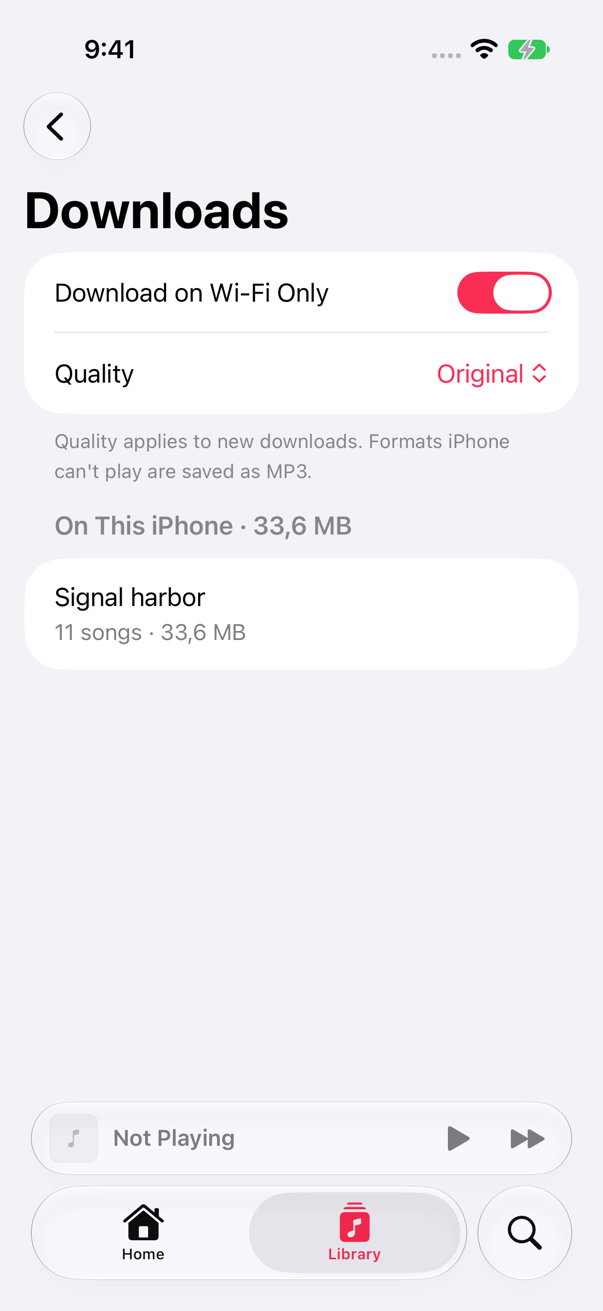
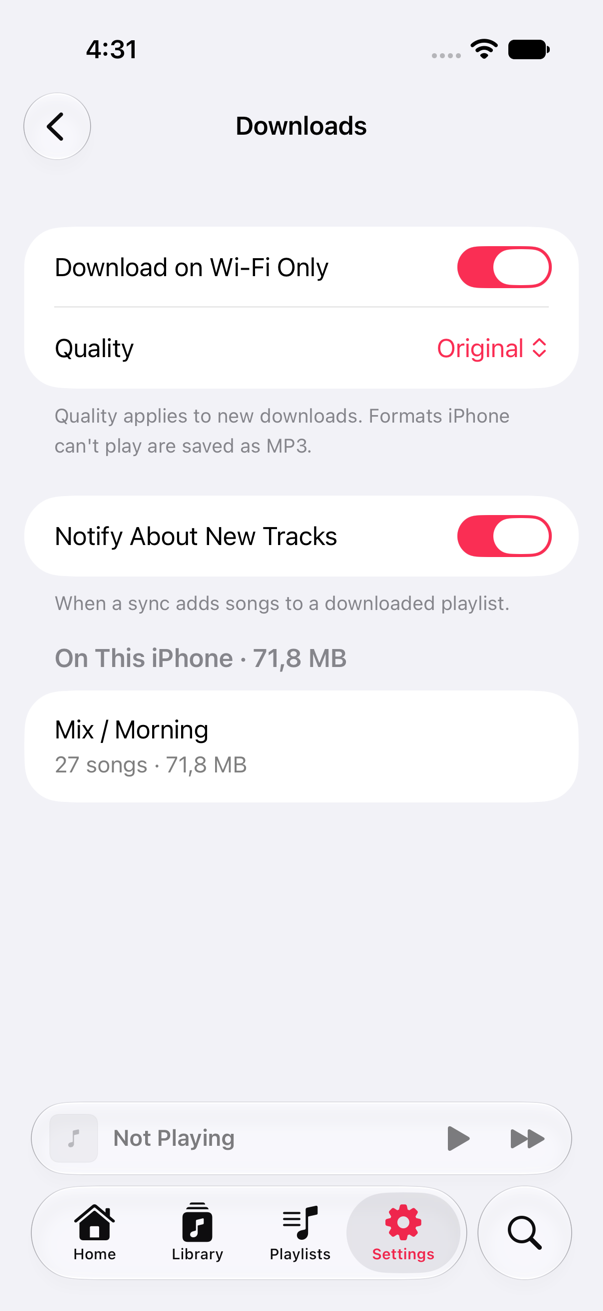
feat(ios): expiry and track alerts

diff --git a/apps/ios/Sources/Notifications/Notices.swift b/apps/ios/Sources/Notifications/Notices.swift
@@ -1,0 +1,83 @@
+import AppIntents
+import UserNotifications
+
+/// Every local notification the app posts. Without permission the system drops them, so callers don't check.
+enum Notices {
+    private static let center = UNUserNotificationCenter.current()
+    private static let presenter = Presenter()
+    private static let warningIDs = ["expiry-2", "expiry-1"]
+
+    static let profile: SigningProfile? = {
+        var url = Bundle.main.url(forResource: "embedded", withExtension: "mobileprovision")
+        #if DEBUG
+        // A simulator build isn't signed: point this at a profile to see the signing rows.
+        if let path = ProcessInfo.processInfo.environment["LODESONG_PROFILE"] { url = URL(fileURLWithPath: path) }
+        #endif
+        return url.flatMap { try? Data(contentsOf: $0) }.flatMap(SigningProfile.init)
+    }()
+
+    static var expiry: Date? {
+        let refreshed = UserDefaults.standard.double(forKey: Pref.signingRefreshed)
+        return profile?.expiry(refreshed: refreshed > 0 ? Date(timeIntervalSince1970: refreshed) : nil)
+    }
+
+    static func start() { center.delegate = presenter }
+
+    static func status() async -> UNAuthorizationStatus { await center.notificationSettings().authorizationStatus }
+
+    /// Shows the system's question the first time only.
+    static func askPermission() async {
+        guard await status() == .notDetermined else { return }
+        _ = try? await center.requestAuthorization(options: [.alert, .sound])
+        scheduleExpiryWarnings()
+    }
+
+    /// Replaces whatever was scheduled, so it is safe to call on every launch.
+    static func scheduleExpiryWarnings() {
+        center.removePendingNotificationRequests(withIdentifiers: warningIDs)
+        guard let expiry else { return }
+        for warning in SigningProfile.warnings(expiry: expiry, now: Date()) {
+            let content = UNMutableNotificationContent()
+            content.title = warning.days == 1 ? "lodesong expires tomorrow" : "lodesong expires in \(warning.days) days"
+            content.body = "Refresh it in SideStore. Already did? Tap I Refreshed Today in Settings, About."
+            content.sound = .default
+            let trigger = UNTimeIntervalNotificationTrigger(timeInterval: warning.date.timeIntervalSinceNow, repeats: false)
+            center.add(UNNotificationRequest(identifier: "expiry-\(warning.days)", content: content, trigger: trigger))
+        }
+    }
+
+    static func markRefreshed() {
+        UserDefaults.standard.set(Date().timeIntervalSince1970, forKey: Pref.signingRefreshed)
+        center.removeDeliveredNotifications(withIdentifiers: warningIDs)
+        scheduleExpiryWarnings()
+    }
+
+    static func post(_ found: [NewTracks]) {
+        guard UserDefaults.standard.bool(Pref.notifyNewTracks, or: true) else { return }
+        for new in found {
+            let content = UNMutableNotificationContent()
+            content.title = new.name
+            content.body = new.count == 1 ? "1 new track" : "\(new.count) new tracks"
+            content.sound = .default
+            center.add(UNNotificationRequest(identifier: "new-\(new.playlist)", content: content, trigger: nil))
+        }
+    }
+
+    /// iOS stays silent about an app that is on screen unless it is asked not to.
+    private final class Presenter: NSObject, UNUserNotificationCenterDelegate {
+        func userNotificationCenter(_ center: UNUserNotificationCenter, willPresent notification: UNNotification) async -> UNNotificationPresentationOptions {
+            [.banner, .list, .sound]
+        }
+    }
+}
+
+/// For the daily refresh shortcut, right after SideStore's Refresh All Apps.
+struct MarkRefreshedIntent: AppIntent {
+    static let title: LocalizedStringResource = "Mark lodesong as Refreshed"
+    static let description = IntentDescription("Run after SideStore refreshes lodesong, so its expiry warnings move on.")
+
+    func perform() async throws -> some IntentResult {
+        Notices.markRefreshed()
+        return .result()
+    }
+}

diff --git a/apps/ios/Sources/Notifications/NoticeViews.swift b/apps/ios/Sources/Notifications/NoticeViews.swift
@@ -1,0 +1,60 @@
+import SwiftUI
+import UserNotifications
+
+/// Settings, About: how long the app stays openable. Not shown in builds that aren't signed.
+struct SigningSection: View {
+    @AppStorage(Pref.signingRefreshed) private var refreshed = 0.0
+    @State private var status: UNAuthorizationStatus?
+
+    var body: some View {
+        // `refreshed` is read here so the rows redraw when it changes.
+        if let expiry = Notices.expiry, refreshed >= 0 {
+            let days = SigningProfile.daysLeft(until: expiry, now: Date())
+            Section {
+                LabeledContent("Days Left", value: days.map { $0 == 0 ? "Less than 1" : "\($0)" } ?? "Unknown")
+                if days != nil {
+                    LabeledContent("Expires", value: expiry.formatted(date: .abbreviated, time: .shortened))
+                }
+                if status == .notDetermined {
+                    Button("Remind Me Before It Expires") {
+                        Task {
+                            await Notices.askPermission()
+                            status = await Notices.status()
+                        }
+                    }
+                }
+                Button("I Refreshed Today") { Notices.markRefreshed() }
+            } header: {
+                Text("Signing")
+            } footer: {
+                Text(status == .denied
+                    ? "Notifications are off for lodesong in iOS Settings, so you won't be warned."
+                    : "A refresh in SideStore doesn't tell the app. Tap I Refreshed Today afterwards, or add the Mark lodesong as Refreshed action to your refresh shortcut.")
+            }
+            .task { status = await Notices.status() }
+        }
+    }
+}
+
+struct NewTracksToggle: View {
+    @AppStorage(Pref.notifyNewTracks) private var notify = true
+    @State private var denied = false
+
+    var body: some View {
+        Section {
+            Toggle("Notify About New Tracks", isOn: $notify)
+                .onChange(of: notify) { _, on in
+                    guard on else { return }
+                    Task {
+                        await Notices.askPermission()
+                        denied = await Notices.status() == .denied
+                    }
+                }
+        } footer: {
+            Text(notify && denied
+                ? "Notifications are off for lodesong in iOS Settings."
+                : "When a sync adds songs to a downloaded playlist.")
+        }
+        .task { denied = await Notices.status() == .denied }
+    }
+}

diff --git a/apps/ios/Sources/Core/SigningProfile.swift b/apps/ios/Sources/Core/SigningProfile.swift
@@ -1,0 +1,44 @@
+import Foundation
+
+extension Pref {
+    static let notifyNewTracks = "notifyNewTracks"
+    /// When the user, or their refresh shortcut, last said the app was refreshed. Seconds since 1970.
+    static let signingRefreshed = "signingRefreshed"
+}
+
+/// The app's `embedded.mobileprovision`: a signed blob with a plist in the middle of it. Simulator and unsigned
+/// builds have none. SideStore and AltStore refresh by installing a new profile on the phone without touching this
+/// file, so after a refresh it still holds the old date.
+struct SigningProfile: Equatable {
+    var created: Date?
+    var expires: Date
+
+    private static let day: TimeInterval = 24 * 60 * 60
+
+    init?(_ data: Data) {
+        guard let start = data.range(of: Data("<?xml".utf8)),
+              let end = data.range(of: Data("</plist>".utf8), in: start.lowerBound..<data.endIndex),
+              let plist = try? PropertyListSerialization.propertyList(from: data.subdata(in: start.lowerBound..<end.upperBound), format: nil),
+              let values = plist as? [String: Any],
+              let expires = values["ExpirationDate"] as? Date else { return nil }
+        self.created = values["CreationDate"] as? Date
+        self.expires = expires
+    }
+
+    /// The later of what the file says and a full lifetime (7 days on a free Apple ID) after the last refresh.
+    func expiry(refreshed: Date?) -> Date {
+        guard let refreshed else { return expires }
+        let lifetime = created.map { expires.timeIntervalSince($0) } ?? 7 * Self.day
+        return max(expires, refreshed.addingTimeInterval(lifetime))
+    }
+
+    /// Whole days left, rounded down. Nil once the date has passed: the app is still open, so it was refreshed since.
+    static func daysLeft(until expiry: Date, now: Date) -> Int? {
+        expiry > now ? Int(expiry.timeIntervalSince(now) / day) : nil
+    }
+
+    /// When to warn: 2 days and 1 day before, leaving out the times already gone.
+    static func warnings(expiry: Date, now: Date) -> [(days: Int, date: Date)] {
+        [2, 1].map { (days: $0, date: expiry.addingTimeInterval(-Double($0) * day)) }.filter { $0.date > now }
+    }
+}

diff --git a/apps/ios/Tests/CoreTests/SigningProfileTests.swift b/apps/ios/Tests/CoreTests/SigningProfileTests.swift
@@ -1,0 +1,30 @@
+import Foundation
+import XCTest
+@testable import LodesongCore
+
+final class SigningProfileTests: XCTestCase {
+    private let day: TimeInterval = 24 * 60 * 60
+
+    func testTheExpiryIsReadFromInsideTheSignedBlob() throws {
+        let plist = """
+        <?xml version="1.0" encoding="UTF-8"?>
+        <plist version="1.0"><dict>
+        <key>CreationDate</key><date>2026-01-01T12:00:00Z</date>
+        <key>ExpirationDate</key><date>2026-01-08T12:00:00Z</date>
+        </dict></plist>
+        """
+        let signature = Data([0x30, 0x82, 0x00, 0xff])
+        let profile = try XCTUnwrap(SigningProfile(signature + Data(plist.utf8) + signature))
+        XCTAssertEqual(profile.expires, ISO8601DateFormatter().date(from: "2026-01-08T12:00:00Z"))
+        XCTAssertEqual(profile.expiry(refreshed: profile.expires), profile.expires.addingTimeInterval(7 * day))
+        XCTAssertNil(SigningProfile(signature))
+    }
+
+    func testWarningsComeTwoDaysAndOneDayBeforeAndSkipPastOnes() {
+        let expiry = Date(timeIntervalSince1970: 1_000_000)
+        let dates = { (now: Date) in SigningProfile.warnings(expiry: expiry, now: now).map(\.date) }
+        XCTAssertEqual(dates(expiry - 7 * day), [expiry - 2 * day, expiry - day])
+        XCTAssertEqual(dates(expiry - 1.5 * day), [expiry - day])
+        XCTAssertEqual(dates(expiry), [])
+    }
+}

diff --git a/apps/ios/Sources/LodesongApp.swift b/apps/ios/Sources/LodesongApp.swift
@@ -10,6 +10,8 @@ struct LodesongApp: App {
     @AppStorage(Pref.tint) private var tint = "red"
     @AppStorage(Pref.tintCustom) private var tintCustom = ""
 
+    init() { Notices.start() }
+
     var body: some Scene {
         WindowGroup {
             Group {
@@ -34,11 +36,15 @@ struct LodesongApp: App {
             .onChange(of: model.needsSignIn) { player.accountChanged() }
         }
         .onChange(of: scenePhase, initial: true) { _, phase in
-            if phase == .active { Task { await model.sync() } }
+            if phase == .active {
+                Notices.scheduleExpiryWarnings()
+                Task { await model.sync() }
+            }
             if phase == .background { model.downloads.scheduleRefresh() }
         }
         .backgroundTask(.appRefresh(DownloadsModel.refreshTask)) {
             await model.downloads.scheduleRefresh()
+            Notices.scheduleExpiryWarnings()
             await model.backgroundRefresh()
         }
         .backgroundTask(.urlSession(DownloadSession.identifier)) {

diff --git a/apps/ios/Sources/Downloads/DownloadsModel.swift b/apps/ios/Sources/Downloads/DownloadsModel.swift
@@ -80,7 +80,9 @@ final class DownloadsModel: ObservableObject {
     /// Call after every library sync so kept playlists follow their changes.
     func librarySynced() {
         guard let store, let library else { return }
+        let before = library.collections
         library.reconcile(with: store)
+        Notices.post(NewTracks.found(before: before, after: library.collections))
         revision += 1
         schedule(retry: true)
     }
@@ -107,6 +109,9 @@ final class DownloadsModel: ObservableObject {
     private func keep(_ ref: DownloadRef) {
         guard let store, let library else { return }
         library.keep(ref, from: store)
+        // The first download is when a notification means something; asking at first launch doesn't.
+        let tracksWanted = ref.kind == .playlist && UserDefaults.standard.bool(Pref.notifyNewTracks, or: true)
+        if tracksWanted || Notices.expiry != nil { Task { await Notices.askPermission() } }
         revision += 1
         schedule(retry: true)
     }

diff --git a/apps/ios/Tests/CoreTests/DownloadLibraryTests.swift b/apps/ios/Tests/CoreTests/DownloadLibraryTests.swift
@@ -88,6 +88,17 @@ final class DownloadLibraryTests: XCTestCase {
         XCTAssertEqual(downloads.collections[0].songs.map(\.id), ["s3", "s1", "s2"])
     }
 
+    func testOnlySongsASyncAddedToAKeptPlaylistAreReported() throws {
+        try library(["gym": ["s1", "s2"]])
+        downloads.keep(gym, from: store)
+        let before = downloads.collections
+
+        try library(["gym": ["s2", "s3", "s1", "s4"], "run": ["s9"]])
+        downloads.reconcile(with: store)
+        XCTAssertEqual(NewTracks.found(before: before, after: downloads.collections), [NewTracks(playlist: "gym", name: "gym", count: 2)])
+        XCTAssertEqual(NewTracks.found(before: downloads.collections, after: downloads.collections), [])
+    }
+
     func testSongsRemovedFromAKeptPlaylistAreDeleted() throws {
         try library(["gym": ["s1", "s2"]])
         downloads.keep(gym, from: store)

diff --git a/apps/ios/Sources/Core/NewTracks.swift b/apps/ios/Sources/Core/NewTracks.swift
@@ -1,0 +1,14 @@
+/// What a sync added to the downloaded playlists.
+struct NewTracks: Equatable {
+    let playlist: String
+    let name: String
+    let count: Int
+
+    static func found(before: [KeptCollection], after: [KeptCollection]) -> [NewTracks] {
+        after.compactMap { kept in
+            guard kept.ref.kind == .playlist, let old = before.first(where: { $0.ref == kept.ref }) else { return nil }
+            let added = Set(kept.songs.map(\.id)).subtracting(old.songs.map(\.id))
+            return added.isEmpty ? nil : NewTracks(playlist: kept.ref.id, name: kept.name, count: added.count)
+        }
+    }
+}

diff --git a/apps/ios/Sources/Downloads/DownloadsView.swift b/apps/ios/Sources/Downloads/DownloadsView.swift
@@ -18,6 +18,8 @@ struct DownloadsView: View {
                 Text("Quality applies to new downloads. Formats iPhone can't play are saved as MP3.")
             }
 
+            NewTracksToggle()
+
             Section {
                 ForEach(downloads.collections) { kept in
                     VStack(alignment: .leading) {

diff --git a/apps/ios/Sources/Views/SettingsPages.swift b/apps/ios/Sources/Views/SettingsPages.swift
@@ -173,6 +173,7 @@ struct AboutSettings: View {
 
     var body: some View {
         Form {
+            SigningSection()
             Section {
                 LabeledContent("Version", value: version)
                 Link("What's New", destination: URL(string: "https://github.com/FindMalek/lodesong/releases")!)

diff --git a/docs/ios.md b/docs/ios.md
@@ -80,7 +80,7 @@ If refresh starts failing after an iPhone update or reset, the pairing file is p
 SideStore tries to refresh in the background on its own. iOS doesn't promise when that runs, so add a daily Shortcut:
 
 1. In the **Shortcuts** app make a shortcut: connect LocalDevVPN → Open URL `sidestore://` → **Refresh All Apps**
-   (SideStore's action) → disconnect LocalDevVPN.
+   (SideStore's action) → **Mark lodesong as Refreshed** (lodesong's action, see below) → disconnect LocalDevVPN.
 2. **Automation** → **+** → **Time of Day**, daily, **Run Immediately**, and pick that shortcut. Choose a time when the
    phone is on Wi-Fi and usually unlocked.
 
@@ -88,6 +88,21 @@ Open SideStore now and then and check the days left, and refresh by hand before 
 if you reach your server over Tailscale, reconnect it at the end of the shortcut. If the shortcut fails on iOS 27 while a
 manual refresh works, see [this SideStore issue](https://github.com/SideStore/SideStore/issues/1596) for the fix (reset
 `adi.db` in SideStore's settings).
+
+### Expiry warnings
+
+Settings → About shows the days left, and the app notifies you 2 days and 1 day before. It reads the date from the
+signing profile inside the app, which an install or update replaces. A SideStore **refresh does not**: it adds a new
+profile to the phone and leaves the app as it was. So the app has to be told, with the shortcut action above or
+**I Refreshed Today** on the same screen; either counts 7 more days from that moment. If you refresh without telling
+it, you get warnings you can ignore, and once the old date has passed it shows the days left as unknown.
+
+iOS asks whether lodesong may notify you the first time you download something, or from the button on that screen.
+Builds that aren't signed (the simulator) show none of this.
+
+| Days left | The warning |
+|---|---|
+| ![signing days left](ios/signing-about.png) | ![expiry warning](ios/notify-expiry.png) |
 
 A server can't do the refresh for you (a cron job on your homelab has no way to sign or install on the phone).
 
@@ -113,7 +128,12 @@ A server can't do the refresh for you (a cron job on your homelab has no way to 
    them. [Search](search.md) finds songs by their words too, and takes `artist:`, `album:`, `genre:`, `year:`,
    `format:` and `lyrics:`. Offline it searches the lyrics saved on the phone.
 
-![download settings](ios/download-settings.png)
+   lodesong notifies you when a sync finds new tracks in a downloaded playlist; **Notify About New Tracks** under
+   Storage → Downloads turns that off. With the app closed this waits for iOS to wake it, which it may not do for hours.
+
+| New tracks setting | The notification |
+|---|---|
+| ![download settings](ios/download-settings.png) | ![new tracks notification](ios/notify-new-tracks.png) |
 
 ## Settings
 
@@ -124,7 +144,24 @@ The app works without opening them.
   report playback and when a play counts.
 - **Appearance**: light, dark or system, app tint (red, blue or your own colour), tab bar shrinking, moving player
   background, what a swipe on a song does, which rows Library shows.
-- **Storage**: downloads and the space they take, artwork cache.
+- **Storage**: downloads and the space they take, new track notifications, artwork cache.
+- **About**: version and signing days left.
+
+## Alerts through ntfy (not built)
+
+Push isn't available on free signing, so alerts that don't wait for iOS to wake the app would go through
+[ntfy](https://ntfy.sh) ([#680](https://github.com/FindMalek/lodesong/issues/680)). It would take:
+
+- server settings for the ntfy address and an optional access token, and a long random topic for each account (anyone
+  who knows a topic can read it)
+- a job on the server that reads each account's playlists every few minutes with the Subsonic token of a live sign in,
+  remembers their song ids and posts the playlist name and number of new tracks. The first pass only records. Accounts
+  with no live sign in get nothing
+- a choice of which playlists count: the server doesn't know what is downloaded on a phone
+- a `lodesong://` URL scheme in the app, sent as the message's `Click` link, so tapping opens the app and it syncs
+- the ntfy app on the iPhone, subscribed to the topic. A self-hosted ntfy also needs `upstream-base-url` set to
+  `https://ntfy.sh` for iOS to deliver at once
+- turning off the app's own notification, or both arrive
 
 ## What to check on your phone
 

diff --git a/docs/ios-device-checklist.md b/docs/ios-device-checklist.md
@@ -15,3 +15,5 @@ Run on a real phone. Write what happened next to each line.
 | 9 | turn on Wi-Fi only downloads and use mobile data | nothing downloads | pending |
 | 10 | connect to the car | song and controls show, nothing starts on its own | pending |
 | 11 | refresh or reinstall over the app | sign in, library and downloads are still there | pending |
+| 12 | refresh in SideStore, then run the shortcut with Mark lodesong as Refreshed | Settings → About shows days counted from now | pending |
+| 13 | add a track to a downloaded playlist, leave the app closed for a day | a new tracks notification arrives | pending |
